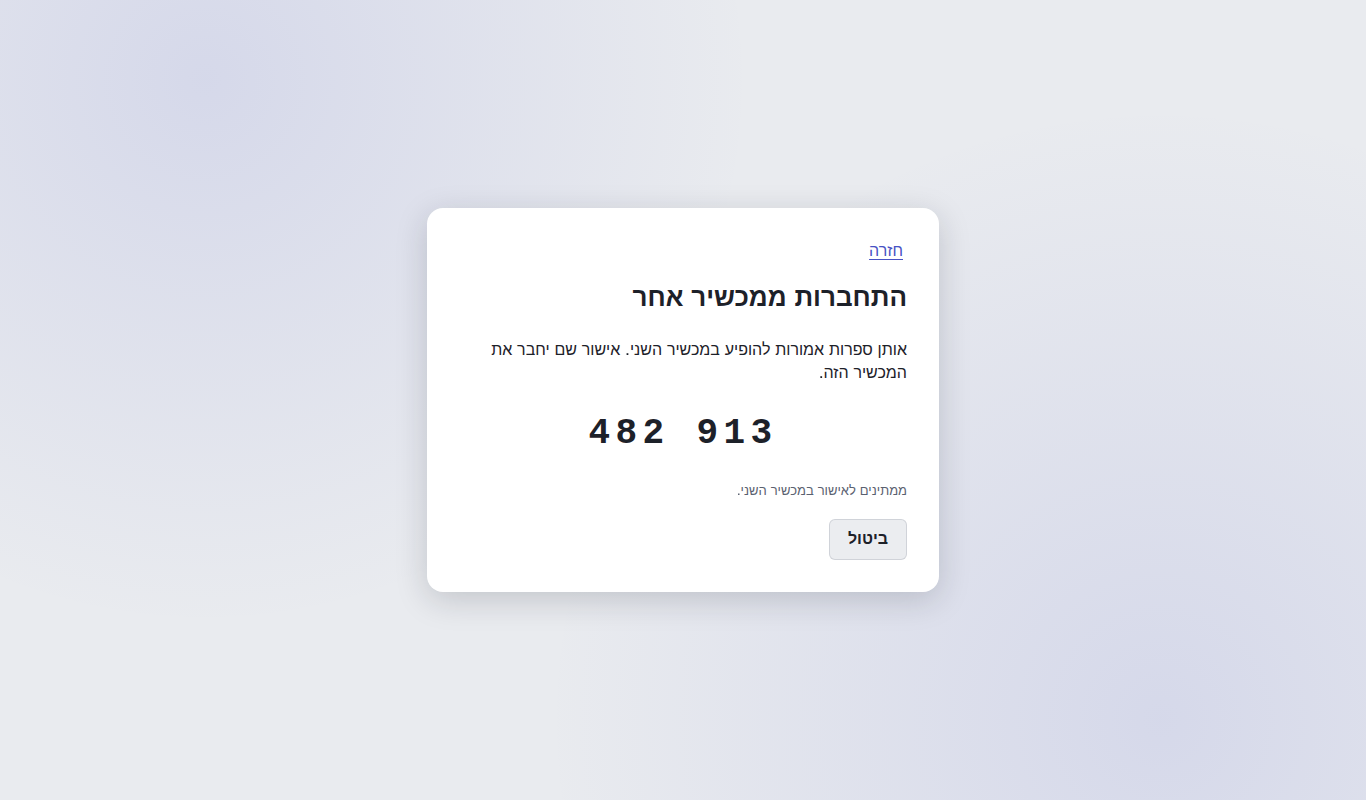
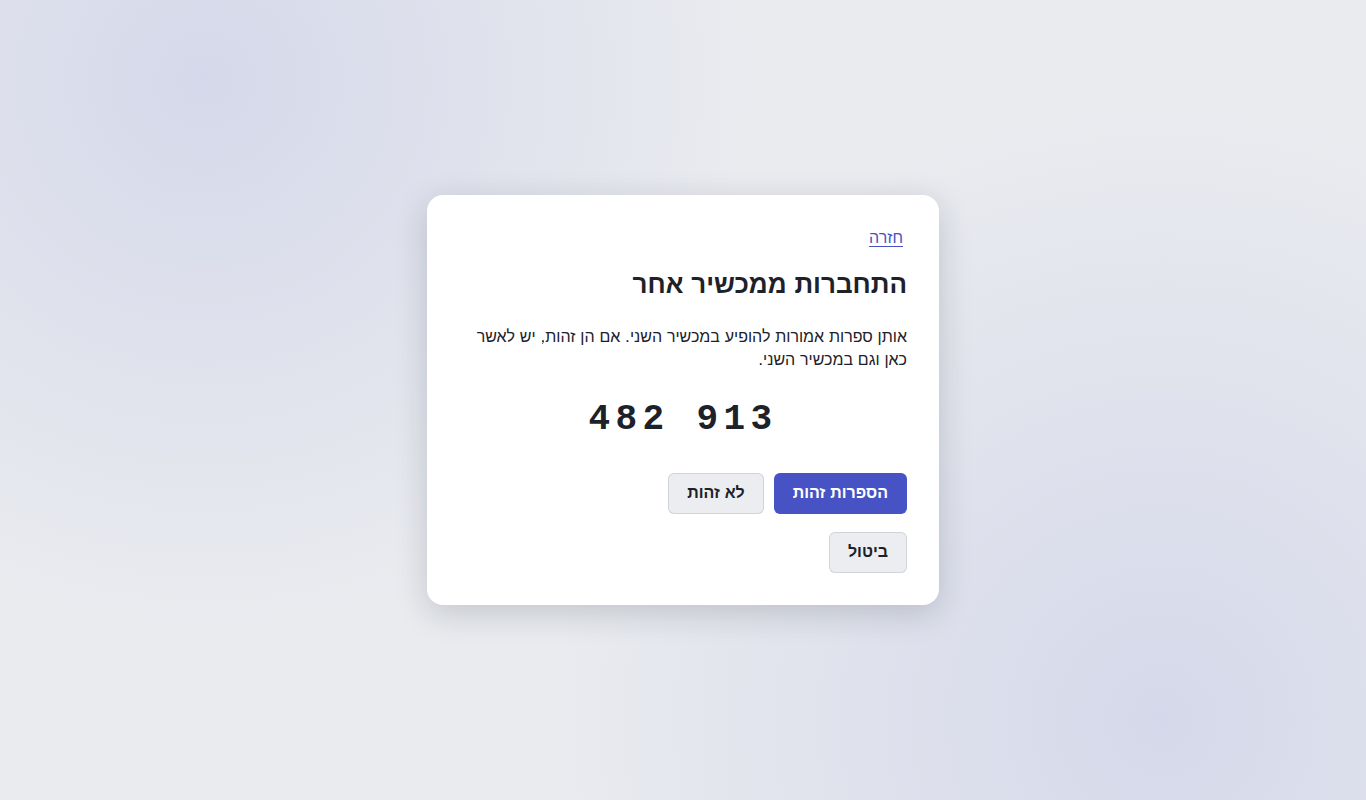
ui: device link, Security Lead on #391: confirm the digits on both devices; full-access warning; locked-out
- Approving device: the account goes out only through the explicit "They match, sign it
  in" (confirmDeviceApproval(true)); a separate full-access line says plainly what
  approving grants (he/en).
- New device: on "confirm" it shows the digits with "The digits match" / "They don't
  match" (focus on the safe answer) -> confirmDeviceLink(match); nothing is applied
  before true; false ends the link (failed/refused). Contract per dev-identity's #393
  update: confirmDeviceLink(match) as { match }; desktop allow-list follows.
- beginDeviceApproval's locked-out: "Someone else may be trying; start again".
- Mock: done applies nothing until the new device confirmed; LLLLLLLLLL answers
  locked-out.
- Tests: no approve call before the explicit confirm, the full-access note; the new
  device's confirm (and done ignored before it), its "don't match"; locked-out.
  Shots 420-425 re-taken.

diff --git a/ui/src/test/deviceLink.test.tsx b/ui/src/test/deviceLink.test.tsx
@@ -41,6 +41,16 @@ describe('device link: the new device', () => {
     expect(screen.getByText('482 913').closest('bdi')?.getAttribute('dir')).toBe('ltr');
     expect(plain(digits.getAttribute('aria-label'))).toBe('Digits to compare: 4 8 2 9 1 3');
     expect(screen.queryByRole('img', { name: 'QR code to link this device' })).toBeNull();
+    // Security Lead: the new device confirms the digits too, before anything is applied.
+    const match = vi.spyOn(core, 'confirmDeviceLink');
+    expect(match).not.toHaveBeenCalled();
+    expect(document.activeElement?.textContent).toBe("They don't match");
+    // Even if the account arrived, nothing is applied before this confirm.
+    act(() => core.simulateDeviceLink('done'));
+    expect(await core.getIdentity()).toBeNull();
+    await click(screen.getByRole('button', { name: 'The digits match' }));
+    expect(match).toHaveBeenCalledWith(true);
+    expect(screen.getByText('Waiting for approval on the other device.')).toBeTruthy();
     act(() => core.simulateDeviceLink('done'));
     // The same account: no country, birth date or words; only the agreement.
     const accept = await screen.findByRole('checkbox');
@@ -62,6 +72,16 @@ describe('device link: the new device', () => {
     await click(screen.getByRole('button', { name: 'New code' }));
     await screen.findByRole('img', { name: 'QR code to link this device' });
     expect(screen.queryByRole('alert')).toBeNull();
+  });
+
+  it("\"They don't match\" on the new device ends the link and says it wasn't approved", async () => {
+    const { core } = await newDevice();
+    act(() => core.simulateDeviceLink('confirm'));
+    const match = vi.spyOn(core, 'confirmDeviceLink');
+    await click(await screen.findByRole('button', { name: "They don't match" }));
+    expect(match).toHaveBeenCalledWith(false);
+    expect((await screen.findByRole('alert')).textContent).toBe("The other device didn't approve it.");
+    expect(await core.getIdentity()).toBeNull();
   });
 
   it('Cancel goes back to the first screen and cancels the link', async () => {
@@ -98,6 +118,9 @@ describe('device link: the signed-in device', () => {
     expect(screen.getByRole('alert').textContent).toContain('No device with this code');
     await submit('RRRRR-RRRRR');
     expect(screen.getByRole('alert').textContent).toContain('Too many tries');
+    // Security Lead: locked out → someone else may be trying.
+    await submit('LLLLL LLLLL');
+    expect(screen.getByRole('alert').textContent).toBe('Someone else may be trying; start again.');
     const begin = vi.spyOn(core, 'beginDeviceApproval');
     await submit('k7qx2-mzrf4');
     expect(begin).toHaveBeenCalledWith('K7QX2MZRF4');
@@ -109,6 +132,24 @@ describe('device link: the signed-in device', () => {
     await click(within(group).getByRole('button', { name: 'They match, sign it in' }));
     expect(confirm).toHaveBeenCalledWith(true);
     expect(screen.getByRole('status').textContent).toBe('The new device was added to your account.');
+  });
+
+  it('Security Lead: nothing is approved or sent before the explicit "They match" (and the screen says full access)', async () => {
+    const { core, submit } = await openDevices();
+    const confirm = vi.spyOn(core, 'confirmDeviceApproval');
+    await submit('K7QX2MZRF4');
+    const group = screen.getByRole('group', { name: /full access/ });
+    // (b) Said plainly, as its own line.
+    expect(within(group).getByRole('note').textContent).toContain('FULL access to your account');
+    // (a) The digits are on screen; time passes; Enter on the focused (safe) button: no approval.
+    await act(async () => {
+      await new Promise((r) => setTimeout(r, 50));
+    });
+    expect(confirm).not.toHaveBeenCalled();
+    expect(confirm).not.toHaveBeenCalledWith(true);
+    await click(within(group).getByRole('button', { name: 'They match, sign it in' }));
+    expect(confirm).toHaveBeenCalledTimes(1);
+    expect(confirm).toHaveBeenCalledWith(true);
   });
 
   it("\"They don't match\" declines it", async () => {

diff --git a/ui/src/screens/onboarding/DeviceLink.tsx b/ui/src/screens/onboarding/DeviceLink.tsx
@@ -47,6 +47,7 @@ export function DeviceLinkScreen({ onLinked, onCancel }: { onLinked: () => void;
 
   const start = async () => {
     setStartFailed(false);
+    setMatched(false);
     setOffer(null);
     setState({ state: 'waiting' });
     try {
@@ -68,6 +69,19 @@ export function DeviceLinkScreen({ onLinked, onCancel }: { onLinked: () => void;
     setState(s);
     if (s.state === 'done') onLinked();
   });
+  const [matched, setMatched] = useState(false);
+  const [busy, setBusy] = useState(false);
+  const answer = async (match: boolean) => {
+    setBusy(true);
+    try {
+      await core.confirmDeviceLink(match);
+      if (match) setMatched(true);
+    } catch {
+      setState({ state: 'failed', reason: 'network' });
+    } finally {
+      setBusy(false);
+    }
+  };
   const cancel = () => {
     void core.cancelDeviceLink().catch(() => {});
     onCancel();
@@ -111,9 +125,21 @@ export function DeviceLinkScreen({ onLinked, onCancel }: { onLinked: () => void;
           <p className="device-link-sas" aria-label={intl.formatMessage({ id: 'deviceLink.sasLabel' }, { sas: state.sas.split('').join(' ') })}>
             <bdi dir="ltr">{groupSas(state.sas)}</bdi>
           </p>
-          <p className="muted small" role="status">
-            <FormattedMessage id="deviceLink.confirmWaiting" />
-          </p>
+          {matched ? (
+            <p className="muted small" role="status">
+              <FormattedMessage id="deviceLink.confirmWaiting" />
+            </p>
+          ) : (
+            <div className="actions">
+              {/* Security Lead: confirmed here too before anything is applied; the safe answer has the focus. */}
+              <button type="button" className="primary" disabled={busy} onClick={() => void answer(true)}>
+                <FormattedMessage id="deviceLink.match" />
+              </button>
+              <button type="button" className="secondary" autoFocus disabled={busy} onClick={() => void answer(false)}>
+                <FormattedMessage id="deviceLink.noMatch" />
+              </button>
+            </div>
+          )}
         </>
       )}
       {state.state === 'done' && (

diff --git a/ui/src/core/mock.ts b/ui/src/core/mock.ts
@@ -747,6 +747,7 @@ export class MockCore implements CoreApi {
     await this.wait(100);
     const code = 'K7QX2MZRF4';
     this.deviceLinkCode = code;
+    this.deviceLinkConfirmed = false;
     const expiresAt = Date.now() + 5 * 60_000;
     this.emit('deviceLink.state', { state: 'waiting' });
     const then = this.options.deviceLink;
@@ -760,6 +761,19 @@ export class MockCore implements CoreApi {
     return { qr: `mvs-link:v1:${code.toLowerCase()}:demo`, code, expiresAt };
   }
 
+  private deviceLinkConfirmed = false;
+
+  async confirmDeviceLink(match: boolean): Promise<null> {
+    await this.wait(100);
+    if (!this.deviceLinkCode) throw err({ code: 'not-found' });
+    this.deviceLinkConfirmed = match;
+    if (!match) {
+      this.deviceLinkCode = null;
+      this.emit('deviceLink.state', { state: 'failed', reason: 'refused' });
+    }
+    return null;
+  }
+
   async cancelDeviceLink(): Promise<null> {
     this.deviceLinkCode = null;
     return null;
@@ -771,6 +785,8 @@ export class MockCore implements CoreApi {
    */
   simulateDeviceLink(state: 'confirm' | 'done' | 'expired' | 'failed', reason?: 'refused' | 'network' | 'timeout'): void {
     if (state === 'done') {
+      // As the core: nothing is applied before this device confirmed the digits.
+      if (!this.deviceLinkConfirmed) return;
       this.identity = { ...this.makeIdentity('me-linked', { locale: 'he', country: 'IL', birthDate: '1998-04-12' }), displayName: 'מורן', recoveryChecked: true };
       this.persisted = { identity: this.identity, createdServers: [], joinedDemo: false, demo: false };
       this.save();
@@ -788,6 +804,7 @@ export class MockCore implements CoreApi {
     if (!/^[A-Z2-7]{10}$/.test(code) && !qrOrCode.startsWith('mvs-link:v1:')) throw err({ code: 'not-found' });
     if (code === 'ZZZZZZZZZZ') throw err({ code: 'not-found' });
     if (code === 'RRRRRRRRRR') throw err({ code: 'rate-limited' });
+    if (code === 'LLLLLLLLLL') throw err({ code: 'locked-out' });
     this.approval = { sas: '482913', expiresAt: Date.now() + 5 * 60_000 };
     return this.approval;
   }

diff --git a/ui/src/screens/settings/Devices.tsx b/ui/src/screens/settings/Devices.tsx
@@ -25,6 +25,7 @@ export function DevicesSection() {
   const inputRef = useRef<HTMLInputElement>(null);
   const errorId = useId();
   const warnId = useId();
+  const fullId = useId();
 
   const begin = async () => {
     const value = normalize(code);
@@ -39,12 +40,13 @@ export function DevicesSection() {
       setApproval(await core.beginDeviceApproval(CODE.test(value) ? value : code.trim()));
       setStep('compare');
     } catch (e) {
-      setError(isCoreError(e) && e.code === 'not-found' ? 'devices.error.notFound' : isCoreError(e) && e.code === 'rate-limited' ? 'devices.error.rateLimited' : 'devices.error.other');
+      setError(isCoreError(e) && e.code === 'not-found' ? 'devices.error.notFound' : isCoreError(e) && e.code === 'rate-limited' ? 'devices.error.rateLimited' : isCoreError(e) && e.code === 'locked-out' ? 'devices.error.lockedOut' : 'devices.error.other');
       inputRef.current?.focus();
     } finally {
       setBusy(false);
     }
   };
+  // Security Lead on #391: the account is sent only after this explicit choice; nothing calls it on its own.
   const decide = async (approve: boolean) => {
     setBusy(true);
     setError(null);
@@ -138,9 +140,12 @@ export function DevicesSection() {
         </form>
       )}
       {step === 'compare' && approval && (
-        <div className="stack device-compare" role="group" aria-labelledby={warnId}>
+        <div className="stack device-compare" role="group" aria-labelledby={warnId} aria-describedby={fullId}>
           <p id={warnId} className="device-warning">
             <FormattedMessage id="devices.compareQuestion" />
+          </p>
+          <p id={fullId} className="device-full-access" role="note">
+            <FormattedMessage id="devices.fullAccess" />
           </p>
           <p className="device-link-sas" aria-label={intl.formatMessage({ id: 'deviceLink.sasLabel' }, { sas: approval.sas.split('').join(' ') })}>
             <bdi dir="ltr">{groupSas(approval.sas)}</bdi>

diff --git a/ui/src/core/api.ts b/ui/src/core/api.ts
@@ -144,6 +144,8 @@ export interface CoreCommands {
   /** New device: a one-time link (5 minutes); replaces an earlier one. Progress comes as deviceLink.state. */
   startDeviceLink(): Promise<DeviceLinkOffer>;
   cancelDeviceLink(): Promise<null>;
+  /** New device, on "confirm": the digits match the other device (Security Lead: nothing is applied before true). false fails the link. */
+  confirmDeviceLink(match: boolean): Promise<null>;
   /** Signed-in device: reach the new device by its QR payload or code. Rejects not-found (no such link, or expired), rate-limited. */
   beginDeviceApproval(qrOrCode: string): Promise<DeviceApproval>;
   /** The digits match (or not). Rejects not-found, bad-request (nothing in progress). */

diff --git a/ui/src/core/types.ts b/ui/src/core/types.ts
@@ -153,6 +153,8 @@ export interface CoreError {
     | 'in-call-elsewhere'
     /** Device link: too many approval attempts. */
     | 'rate-limited'
+    /** Device link: the link is locked (too many tries, or another session holds it): someone else may be trying. */
+    | 'locked-out'
     /** Voice rooms (0.4.3): this server already has 10 live rooms. */
     | 'room-cap'
     // In-app update (core/api CONFORMANCE "Updates")

diff --git a/ui/src/styles/app.css b/ui/src/styles/app.css
@@ -3456,3 +3456,11 @@ input.switch:disabled {
   margin: 0;
   font-weight: 600;
 }
+
+.device-full-access {
+  margin: 0;
+  padding: 0.5rem 0.75rem;
+  border-inline-start: 3px solid var(--danger);
+  background: color-mix(in srgb, var(--danger) 8%, transparent);
+  font-size: 0.875rem;
+}

diff --git a/desktop/src/commands.js b/desktop/src/commands.js
@@ -51,6 +51,7 @@ const COMMANDS = Object.freeze({
   // Device link (device-link-slice.md)
   startDeviceLink: [],
   cancelDeviceLink: [],
+  confirmDeviceLink: ['match'],
   beginDeviceApproval: ['qrOrCode'],
   confirmDeviceApproval: ['approve'],
   // Voice (#223); voice rooms (0.4.3)
